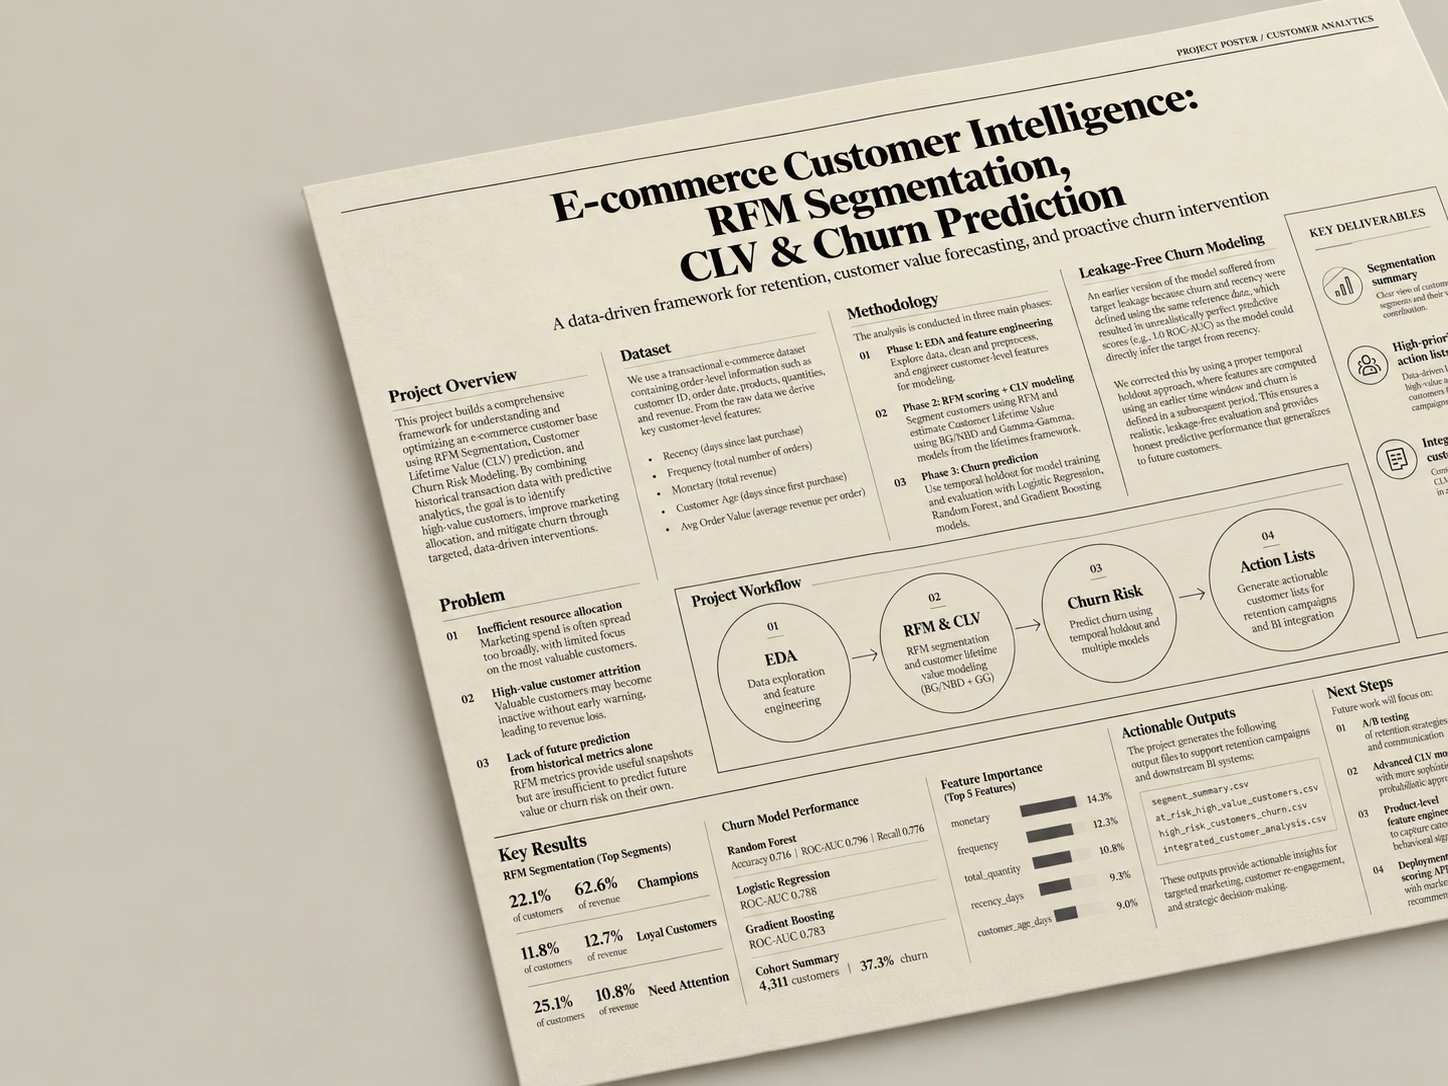
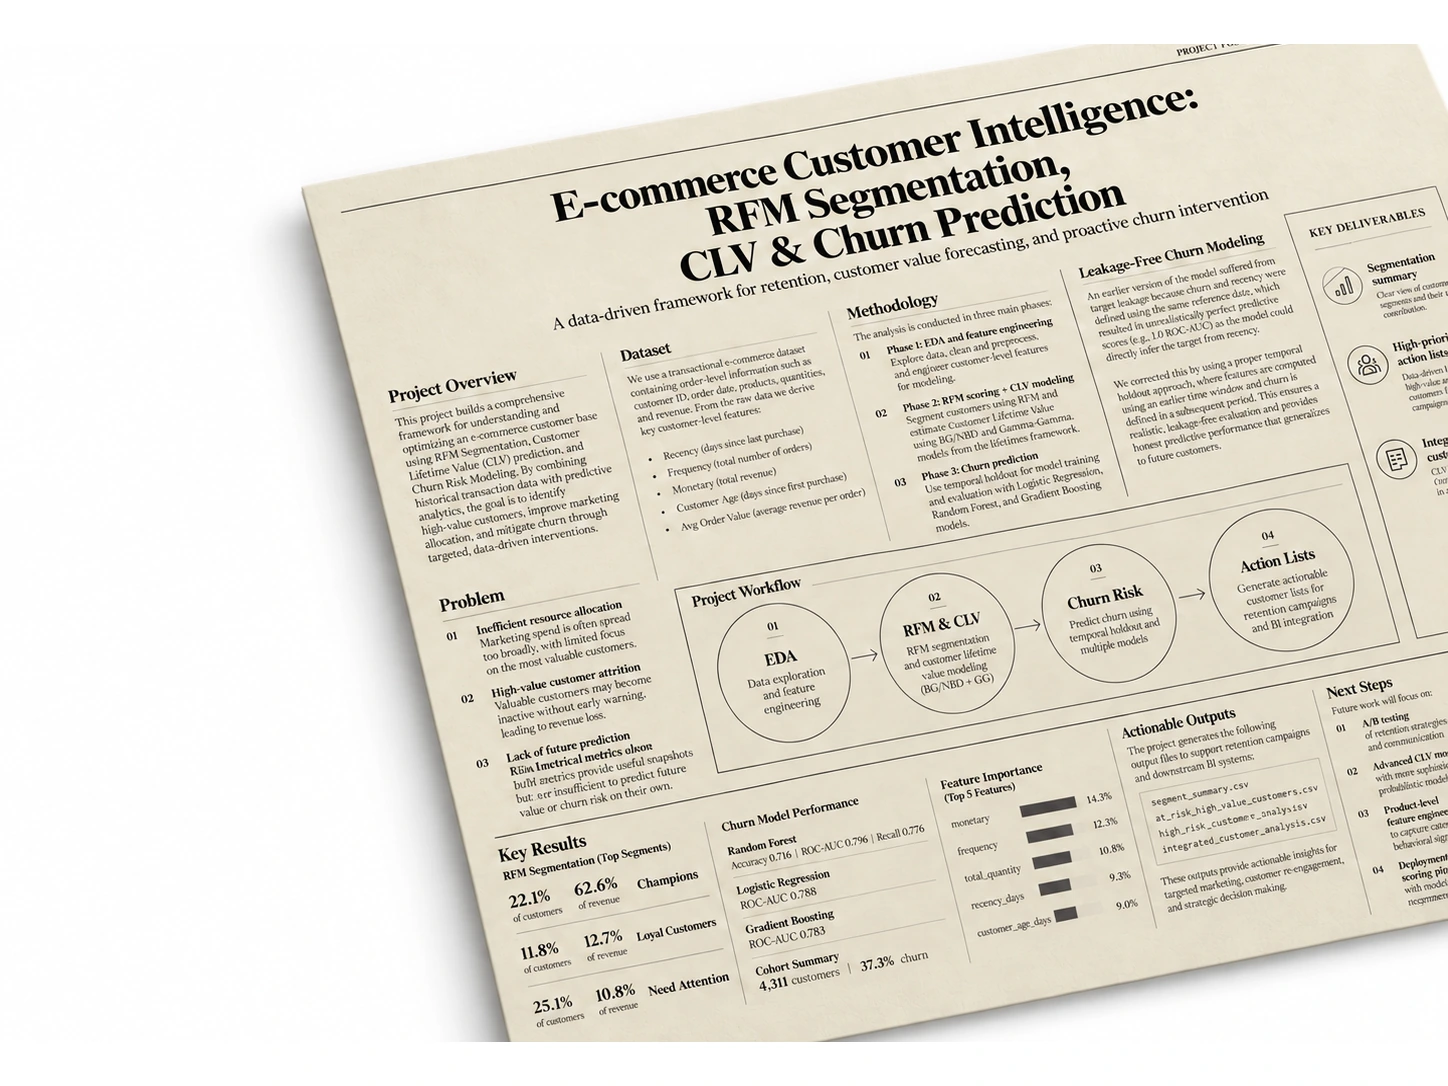
Replace customer retention and CO2 poster images with white borders

diff --git a/src/data/project-papers.ts b/src/data/project-papers.ts
@@ -3,5 +3,5 @@ export const projectPapers = [
  {summary:'Exploring attrition across job roles and overtime to identify where retention efforts could focus.',title:'Where should HR focus its retention efforts?',tools:'Power BI · SQL · Python',image:'/img/hr/retention-poster.png',alt:'Employee attrition analysis poster for Confidential, with selected findings and proposed next steps.',url:'/projects/hr-attrition-analysis/'},
  {summary:'A statistical testing project covering hypotheses, confidence intervals and comparisons between groups.',title:'Is the difference worth acting on?',tools:'Python · NumPy · SciPy',image:'/img/ab-test-paper.svg',alt:'An illustration of the A/B testing workflow from hypothesis to confidence interval and decision.',url:'/projects/ab-test/'},
  {summary:'Cleaning and querying Chinook, COVID-19 and Nashville housing data with joins and window functions.',title:'What can messy records tell us?',tools:'SQL · SQLite · PostgreSQL',image:'/img/sql-analysis-paper.svg',alt:'An illustration of joining, cleaning and querying business data.',url:'/projects/sql-for-business-analytics/'},
-  {summary:'Per capita and total CO2 emissions for 20 countries in 2020, with trends from 2000 to 2020.',title:'How do emissions compare across countries?',tools:'Python · Data visualization',image:'/img/co2-emissions.png',alt:'CO2 emissions per country infographic comparing per capita and total emissions for 20 countries in 2020.',url:'/projects/co2-emissions/'},
+  {summary:'Per capita and total CO2 emissions for 20 countries in 2020, with trends from 2000 to 2020.',title:'How do emissions compare across countries?',tools:'Python · Data visualization',image:'/img/ecommerce/co2-emissions-poster.webp',alt:'CO2 emissions per country infographic comparing per capita and total emissions for 20 countries in 2020.',url:'/projects/co2-emissions/'},
  ];
